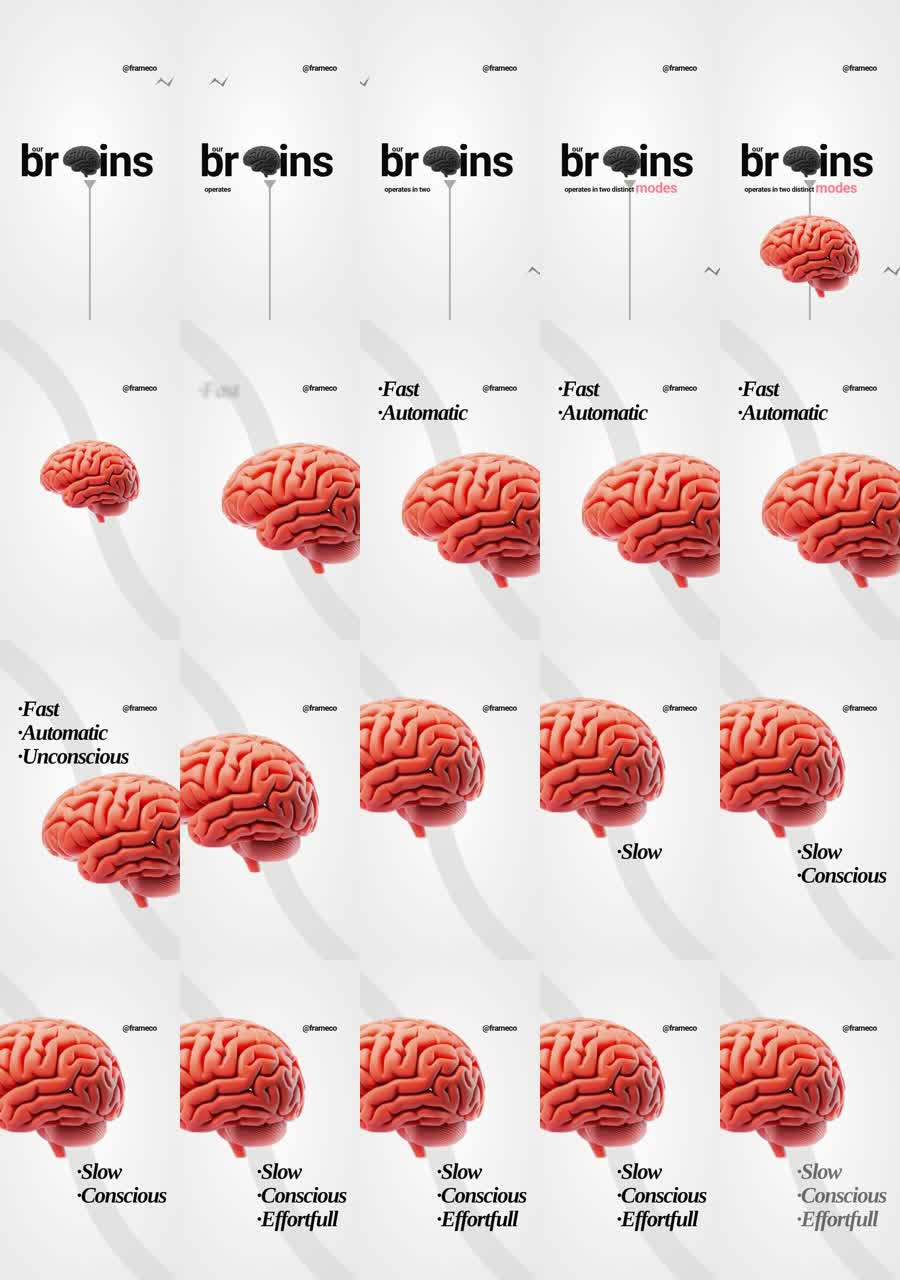
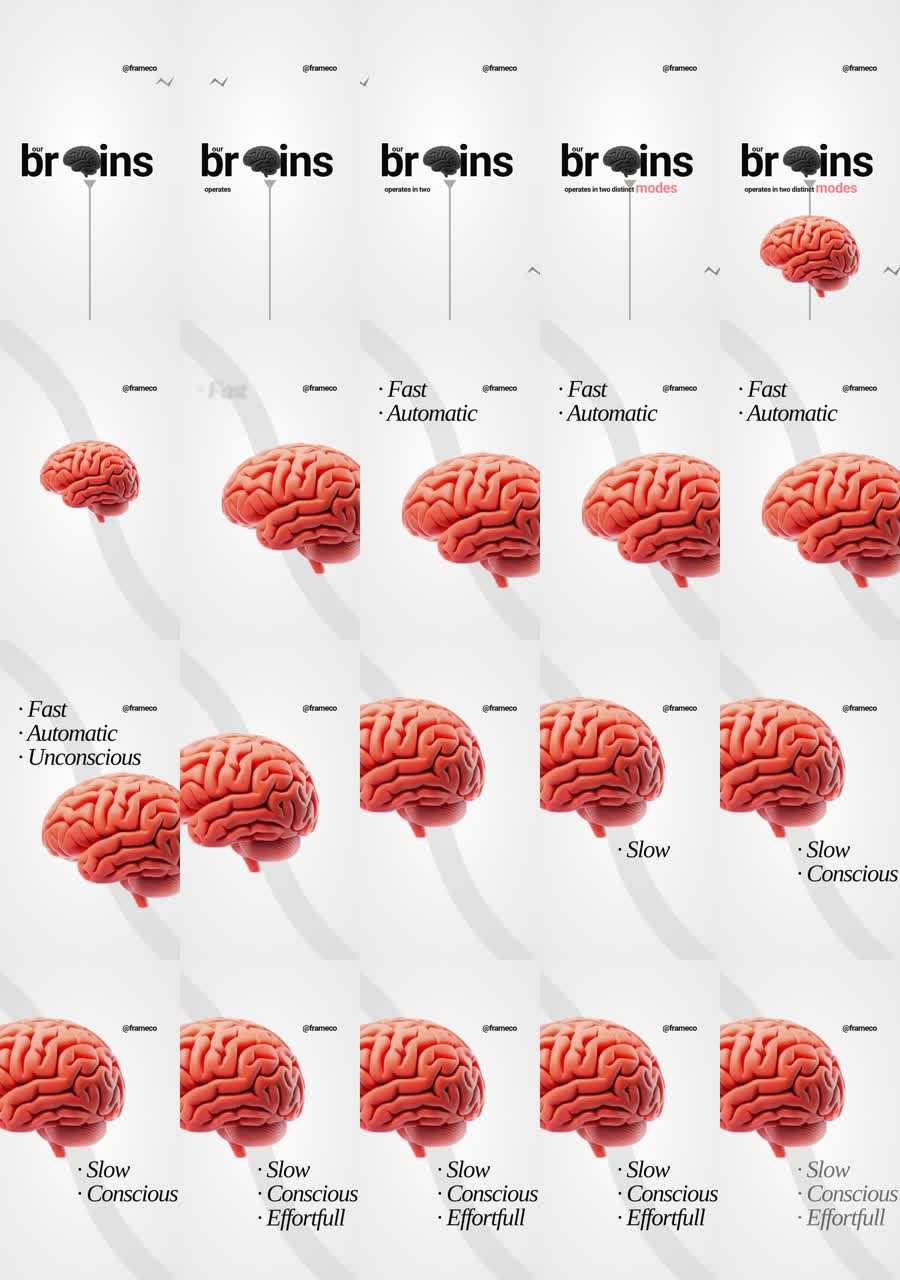
Refine measured motion, typography and brain alpha matte

diff --git a/src/Composition.tsx b/src/Composition.tsx
@@ -11,7 +11,7 @@ import {
   useVideoConfig,
 } from "remotion";
 import "@fontsource/roboto/700.css";
-import "@fontsource/tinos/700-italic.css";
+import "@fontsource/tinos/400-italic.css";
 
 // Measured reference keyframes in a 720 x 1280 design space.
 const ease = Easing.bezier(0.22, 1, 0.36, 1);
@@ -89,8 +89,8 @@ const Background: React.FC<{ t: number }> = ({ t }) => (
         width="430"
         height="810"
         fill="url(#grid)"
-        mask="url(#gridFade)"
-        opacity=".55"
+        transform={`translate(${tween(t, [5.55, 6.2], [0, -300])}, ${tween(t, [5.55, 6.2], [0, -100])})`}
+        opacity=".28"
       />
     </svg>
   </AbsoluteFill>
@@ -186,7 +186,7 @@ const Word: React.FC<{
       whiteSpace: "nowrap",
     }}
   >
-    ·{children}
+    · {children}
   </div>
 );
 
@@ -225,9 +225,9 @@ export const Mindset: React.FC = () => {
           top: tween(t, [3.2, 3.9], [213, 227]),
           fontFamily: "Tinos",
           fontStyle: "italic",
-          fontWeight: 700,
-          fontSize: 88,
-          lineHeight: 1.08,
+          fontWeight: 400,
+          fontSize: 96,
+          lineHeight: 1.0,
           letterSpacing: -4,
           opacity: tween(t, [5.55, 5.88], [1, 0]),
         }}
@@ -246,12 +246,12 @@ export const Mindset: React.FC = () => {
         style={{
           position: "absolute",
           left: 306,
-          top: 798,
+          top: 789,
           fontFamily: "Tinos",
           fontStyle: "italic",
-          fontWeight: 700,
-          fontSize: 88,
-          lineHeight: 1.08,
+          fontWeight: 400,
+          fontSize: 96,
+          lineHeight: 1.0,
           letterSpacing: -4,
           opacity: tween(t, [9.4, 9.86], [1, 0.55]),
         }}
@@ -262,7 +262,7 @@ export const Mindset: React.FC = () => {
         <Word t={t} start={6.83}>
           Conscious
         </Word>
-        <Word t={t} start={7.82}>
+        <Word t={t} start={8.08}>
           Effortfull
         </Word>
       </div>

diff --git a/ANALYSIS.md b/ANALYSIS.md
@@ -17,3 +17,4 @@ Inspected locally: H.264, 720 × 1280, 60 fps, 592 frames, 9.866667 seconds. Ste
 Background is an approximate #e8e8e8–#ffffff radial gradient with a low-contrast #d8d8d8 arc and sparse gray grid. The brain has coral highlights, deep reddish folds, and no separate heavy drop shadow. Typography is a bold grotesque headline plus tight Times-like italic descriptions. Font identities are inferred: bundled Roboto and Tinos are reproducible substitutes, not verified source font identities.
 
 The static brain asset is cropped from the provided reference at 2.7 seconds, with a red-channel separation alpha matte. It is not a recovered 3D model. All timing, text, background shapes and camera movement are recreated in React/SVG, with no reference video playback layer. Source audio is retained. The gray opening uses the same brain silhouette, which differs slightly from the reference opening pose. Curve geometry, font metrics, fine motion and matte edges are approximations. This is an editable reconstruction, not a claim of pixel-identical recovery.
+
